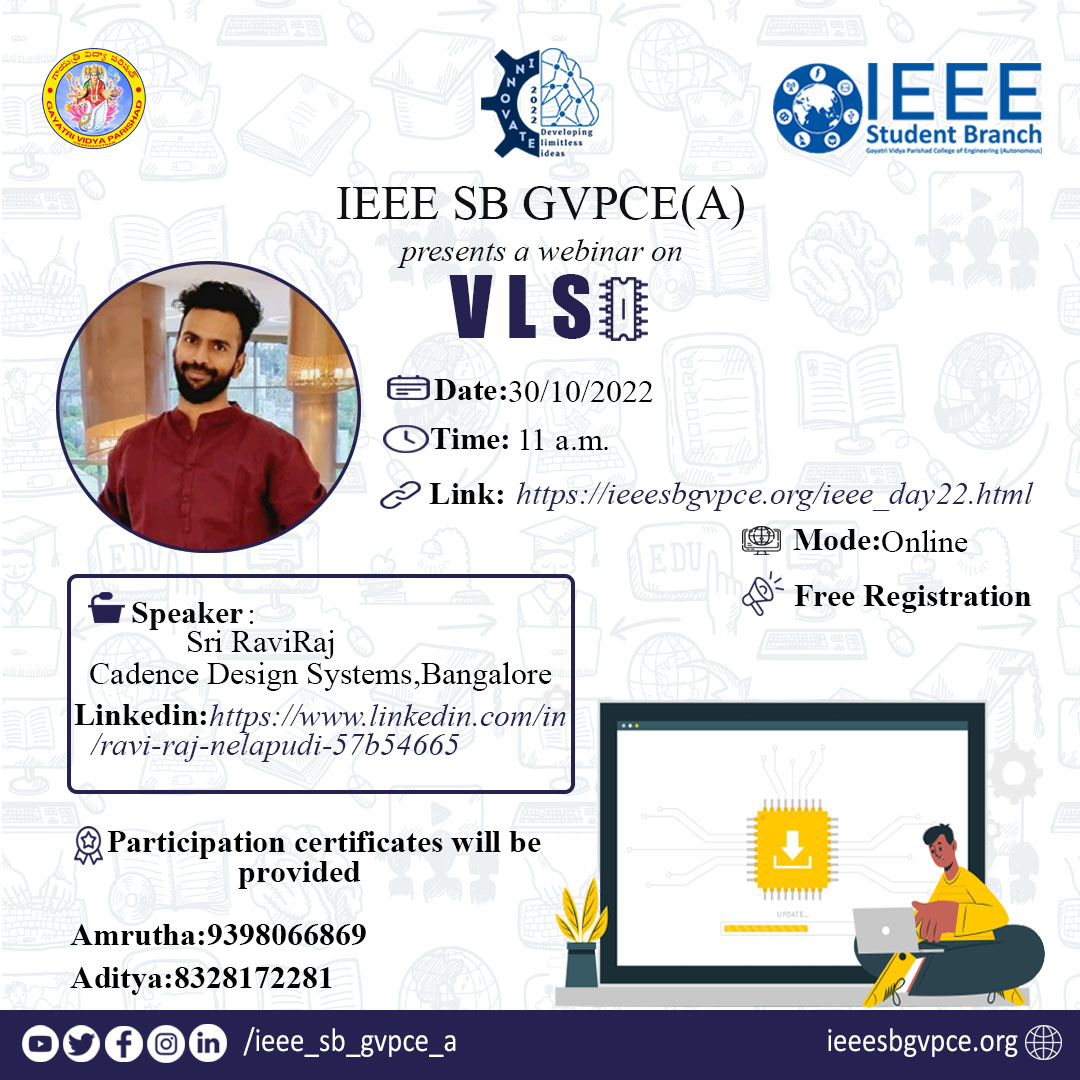
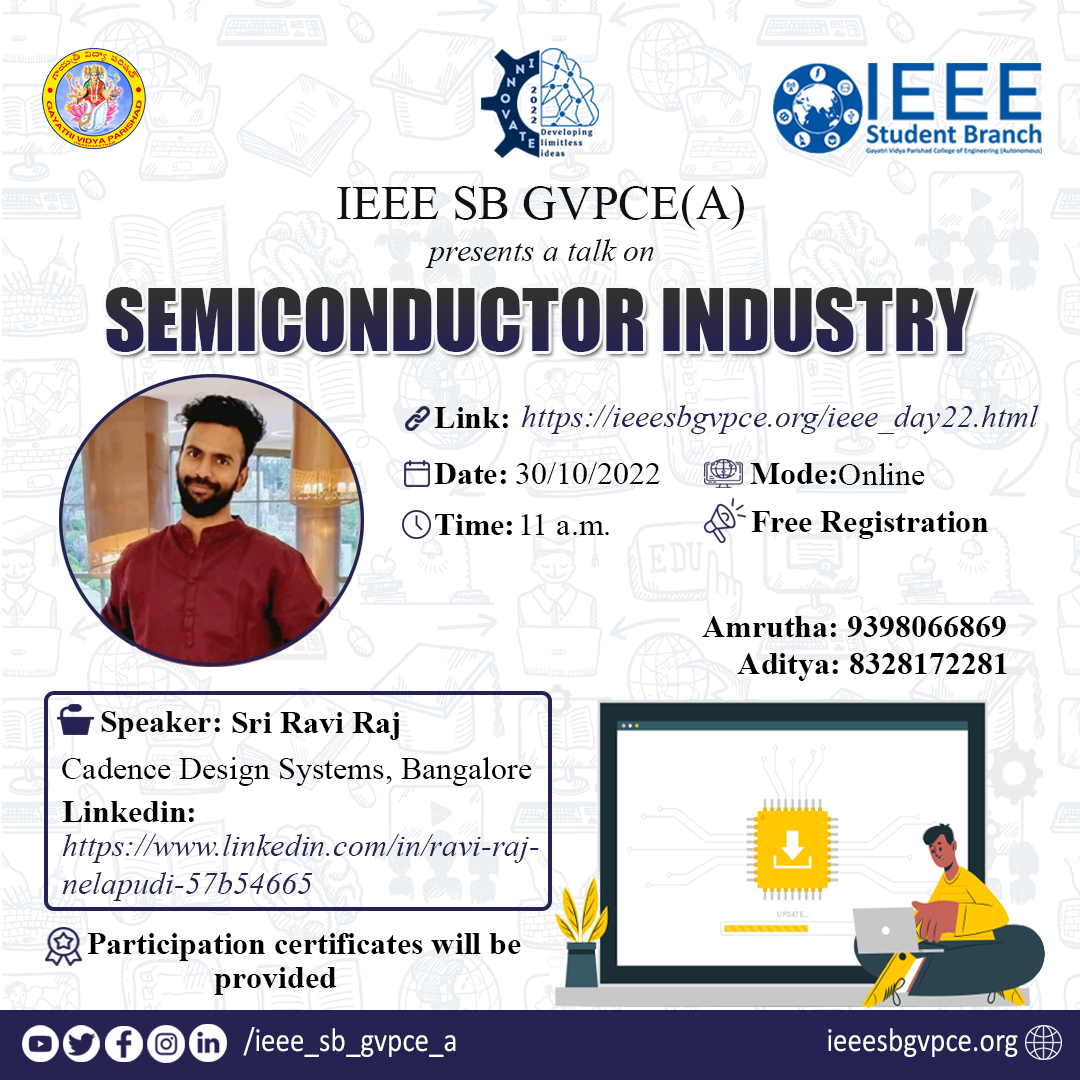
Final Updates IEEE Day '22

Changed region(s): [[0.0306, 0.2139, 0.9778, 0.9167]]

diff --git a/ieee_day22.html b/ieee_day22.html
@@ -362,9 +362,8 @@
                     <h4 class="card-title">Talk on Semiconductor Industry</h4>
                     <p class="card-text">
                       Learning never exhausts. Talk on Semiconductor Industry is one such event which provides you an
-                      opportunity to learn
-                      about the technology with many devices on one chip. Start registering immediately to improve your
-                      knowledge.
+                      opportunity to learn about the technology with semiconductors. Start registering immediately to
+                      improve your knowledge.
                     </p>
                     <a href="events\2022\ieee_day22\46_vlsi.html" class="btn btn-primary event-page-link">Register
                       Here</a>
